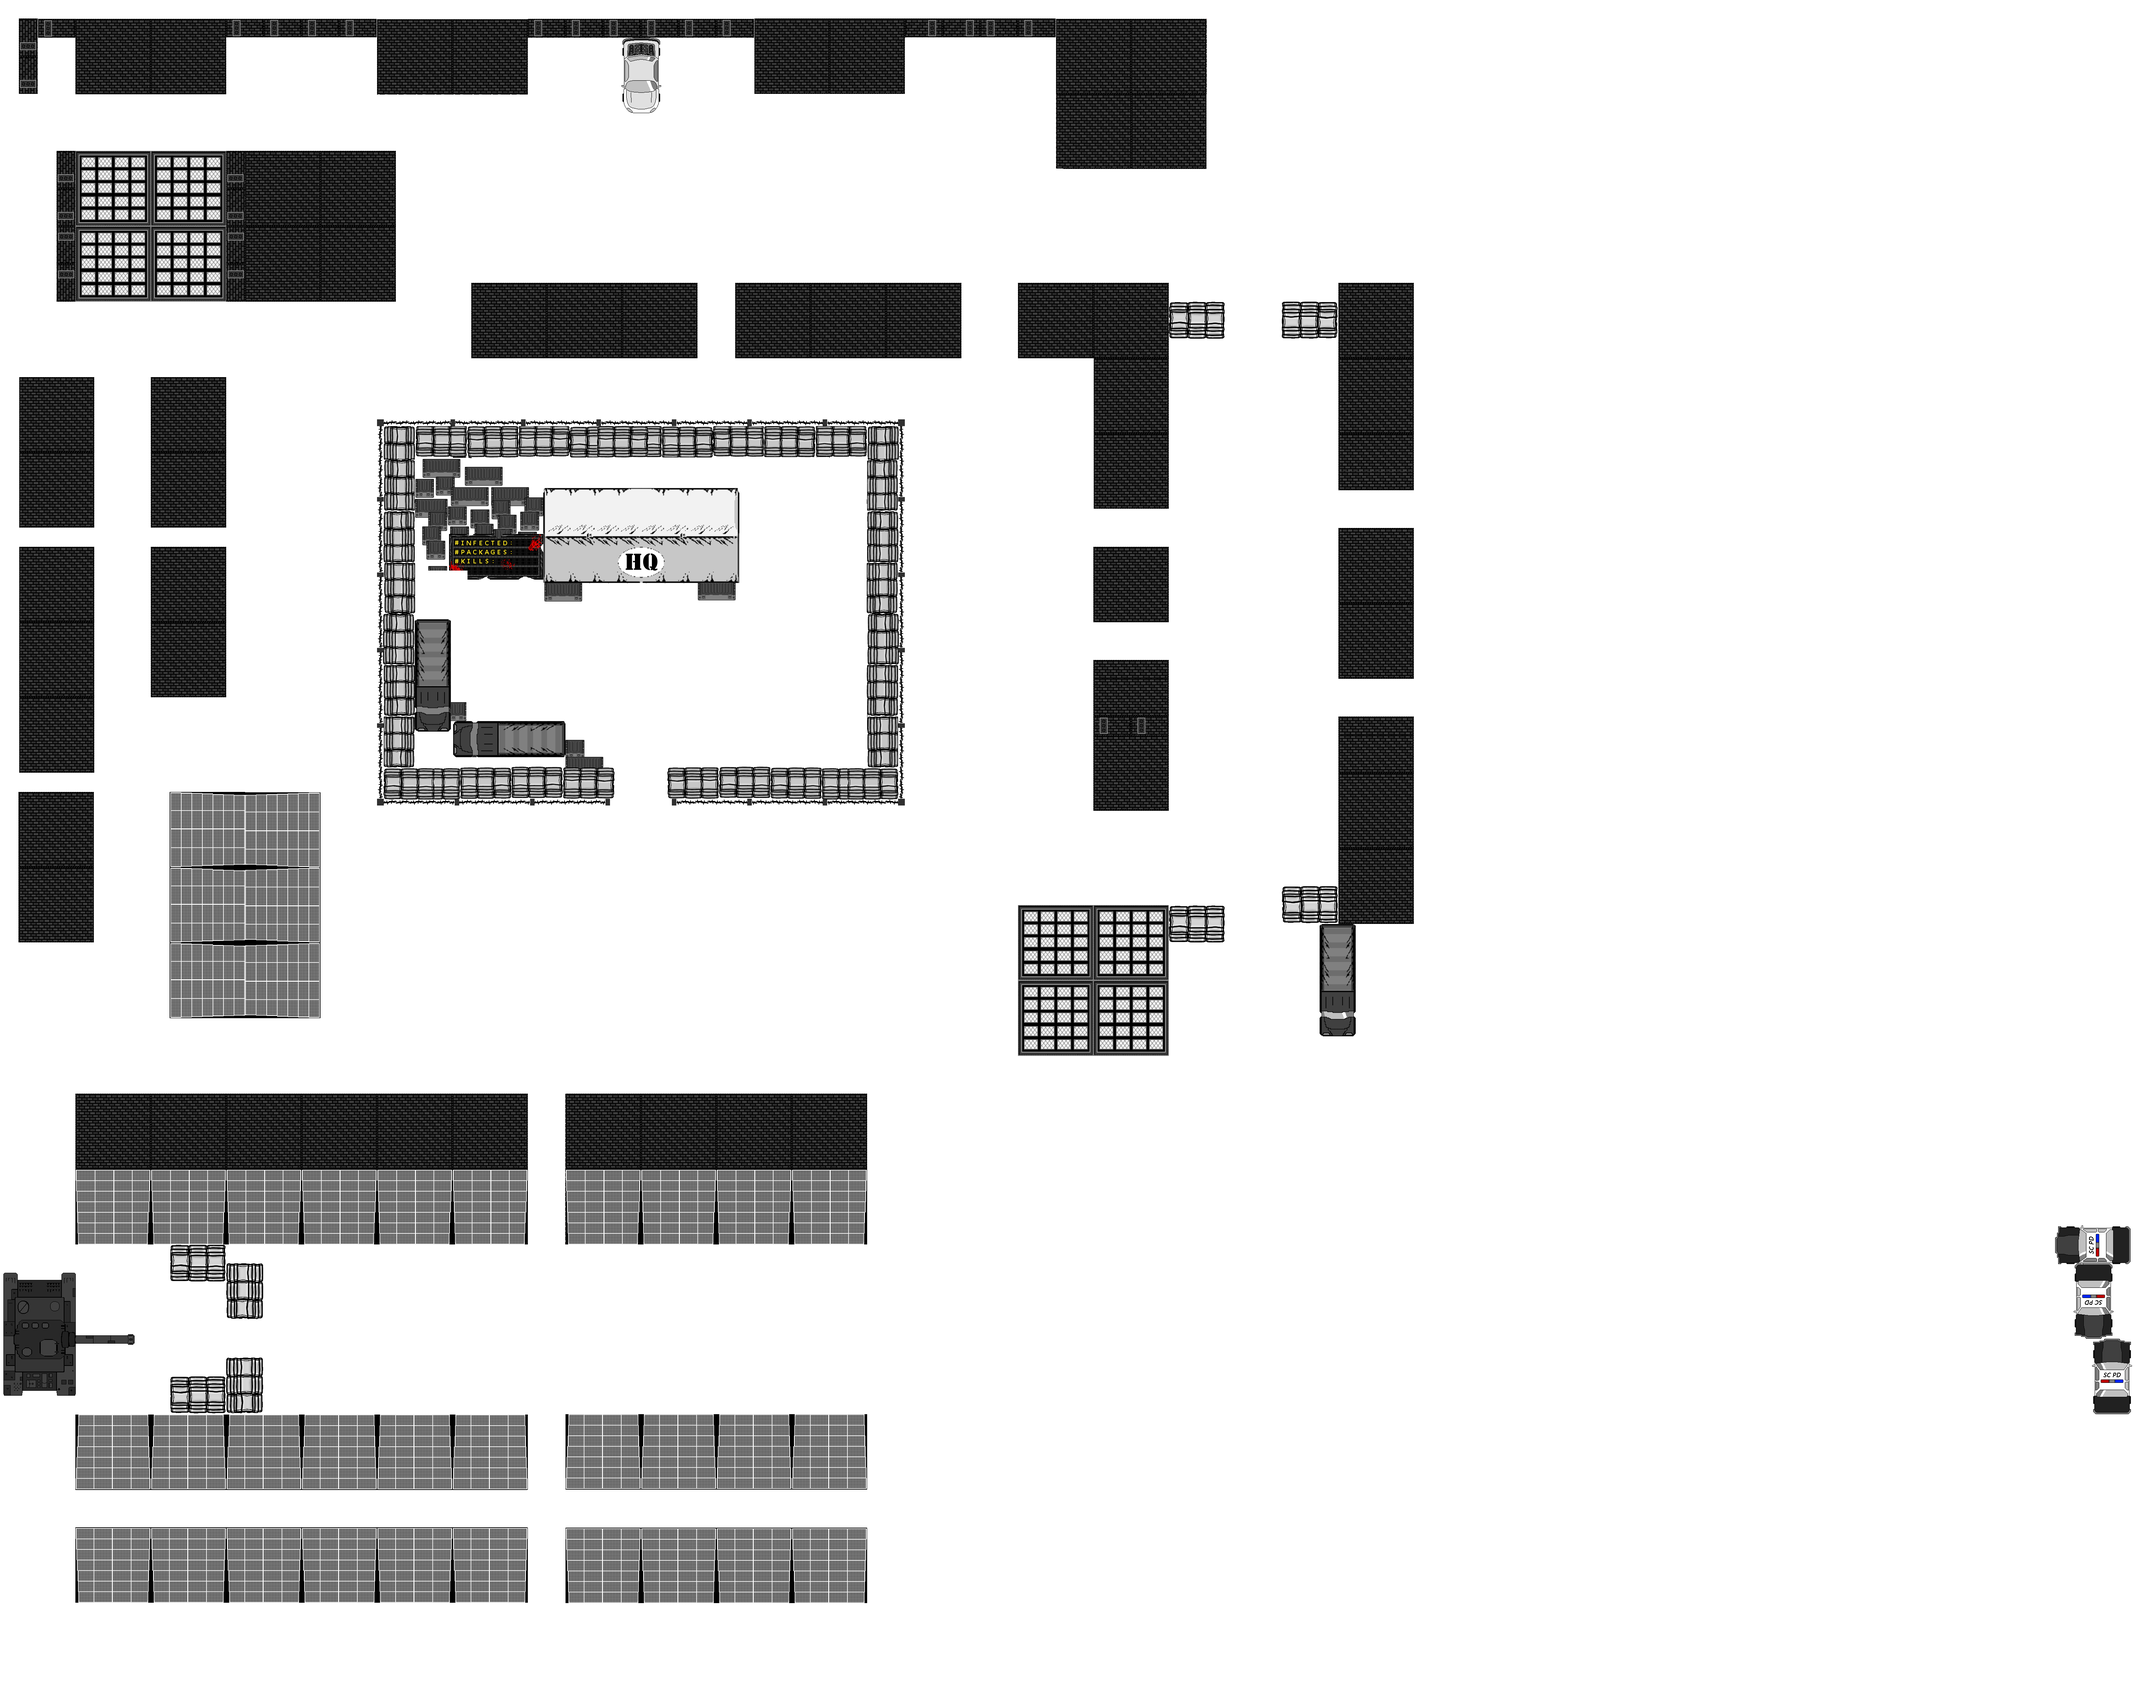
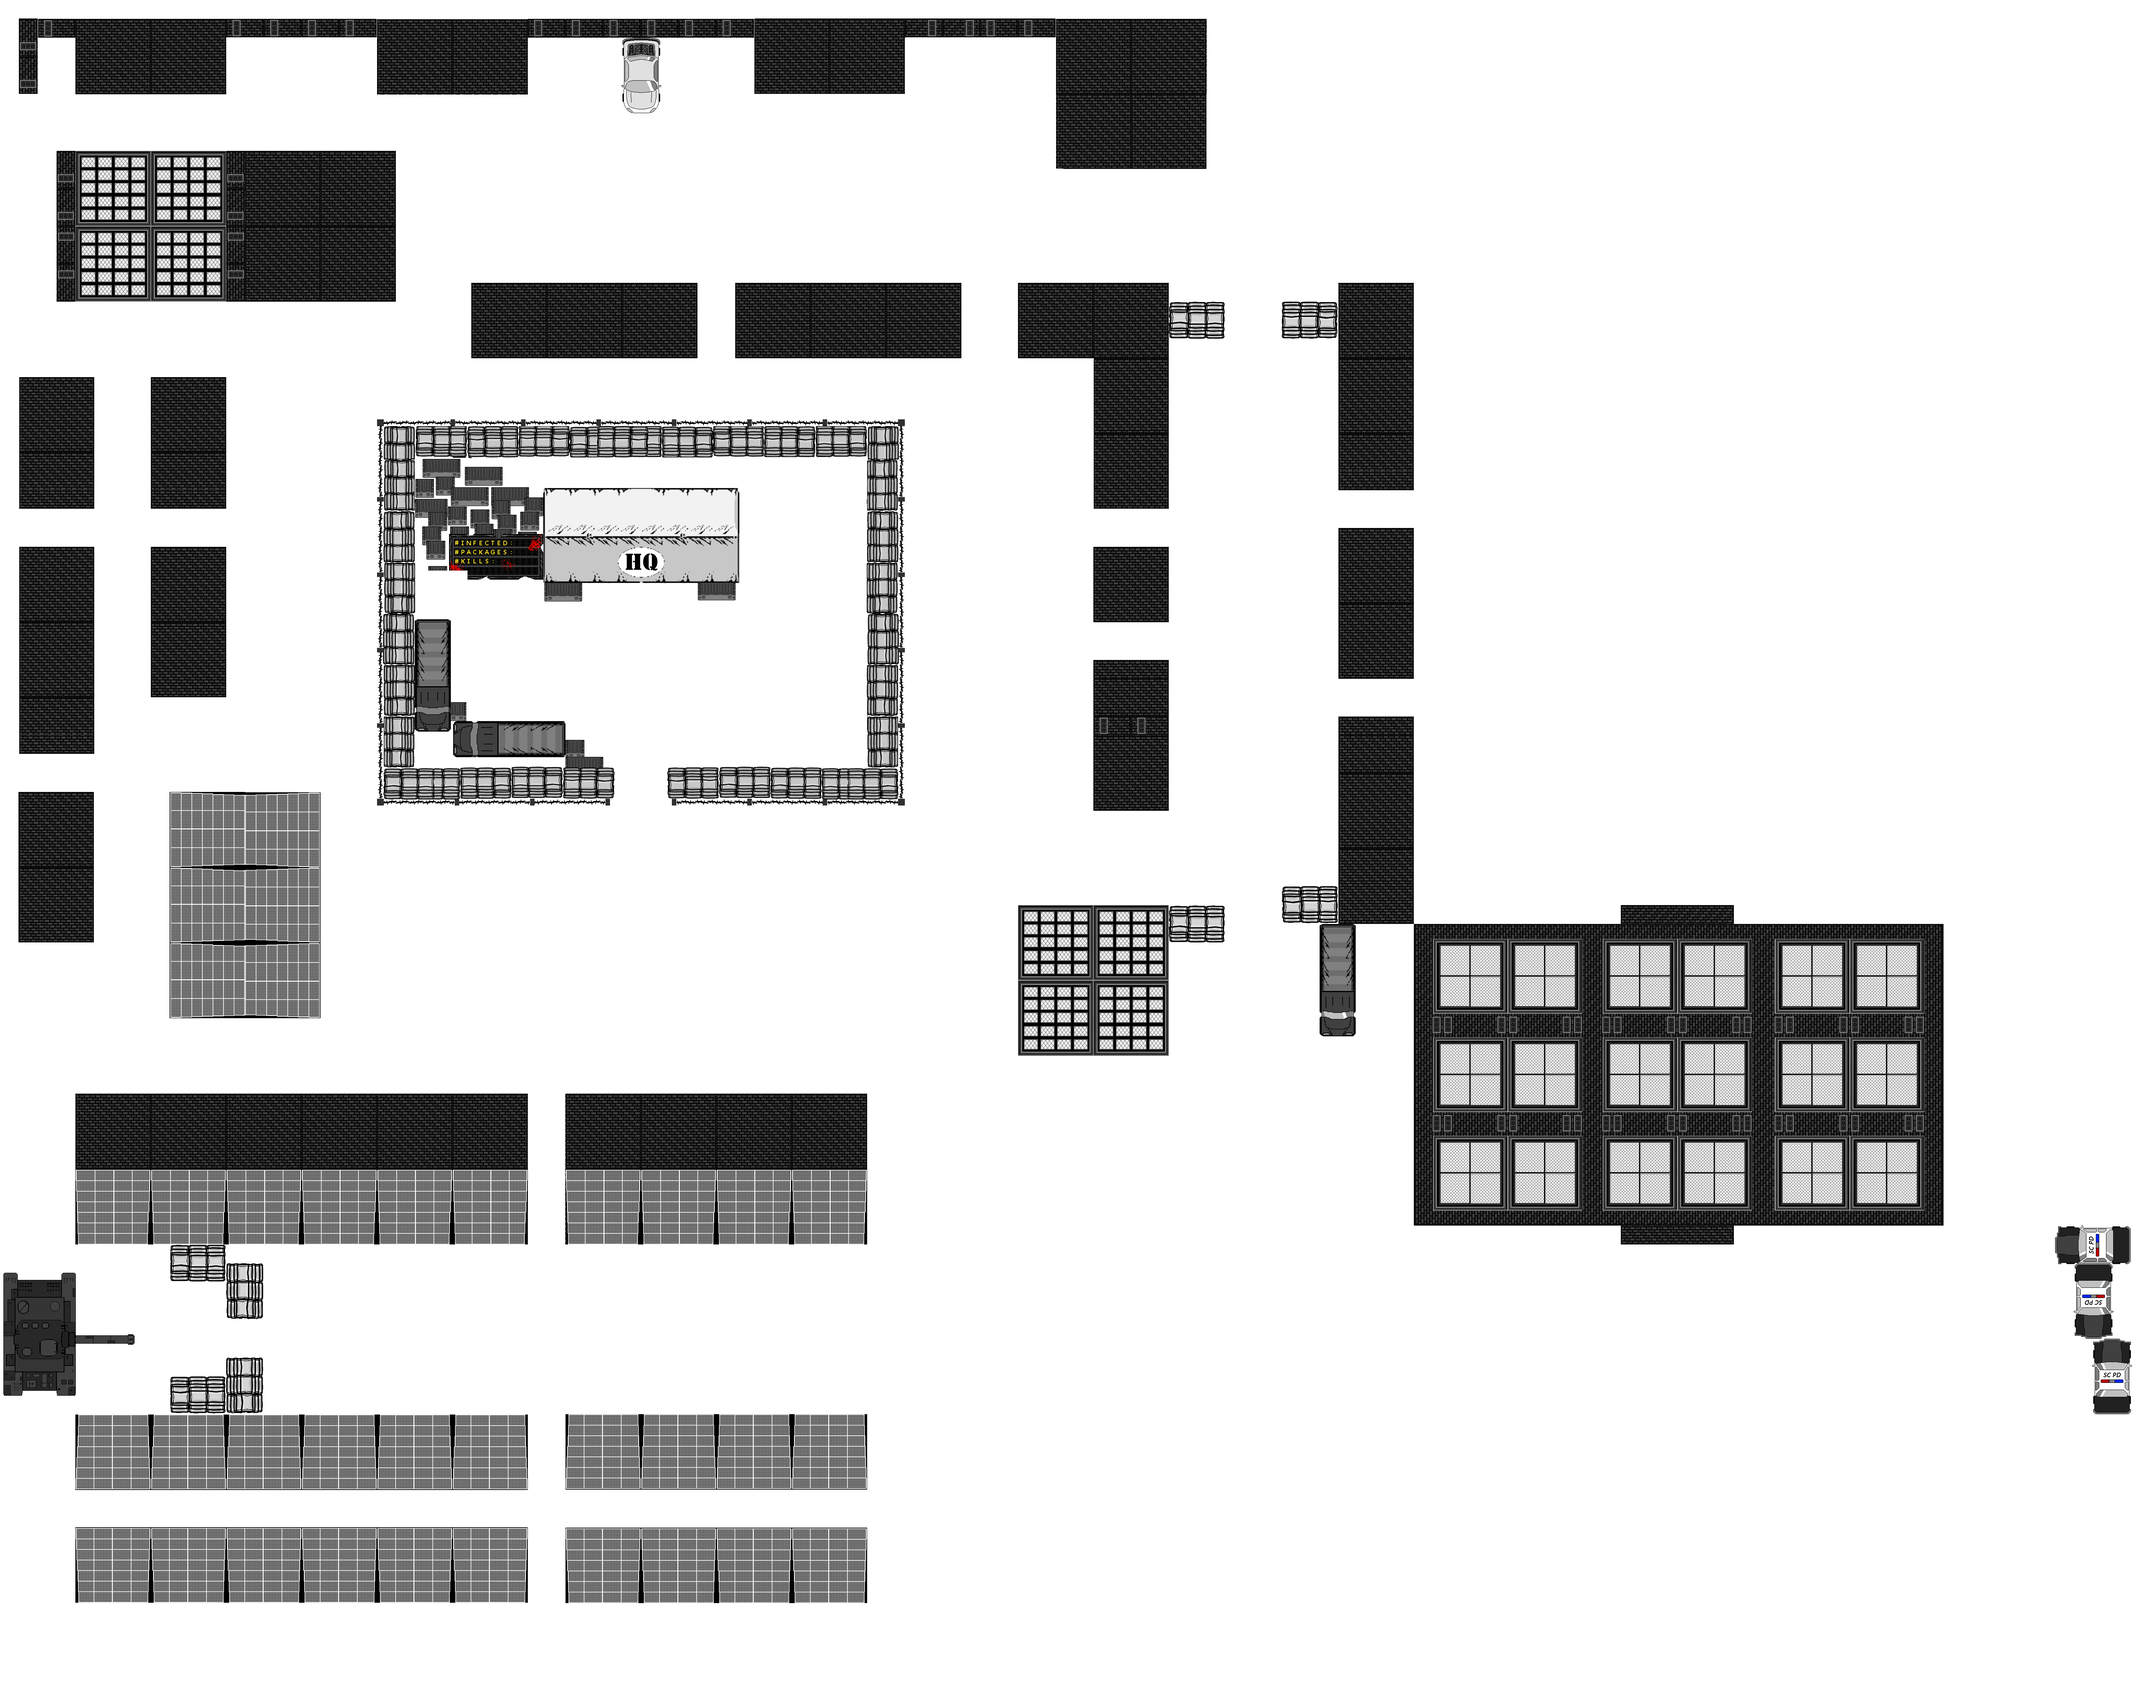
Added buildings to map

Changed region(s): [[0.6558, 0.5289, 0.9056, 0.7467], [0.0, 0.28, 0.1249, 0.3111], [0.0, 0.4356, 0.0625, 0.4667]]

diff --git a/Sombi/Sombi/Objects/Player.cs b/Sombi/Sombi/Objects/Player.cs
@@ -62,7 +62,6 @@ namespace Sombi
             rifleShootingAnimation = new Animation(TextureLibrary.player1RifleSheet, 63, 0.1f, true);
             velocity = Vector2.Zero;
             maxspeed = 2.0f;
-            playerSpeed = 1.8f;
             //playerWeapon = weapon;
             playerSpeed = 2.0f;
             health = 1000;
